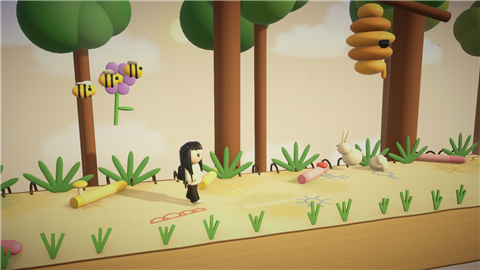
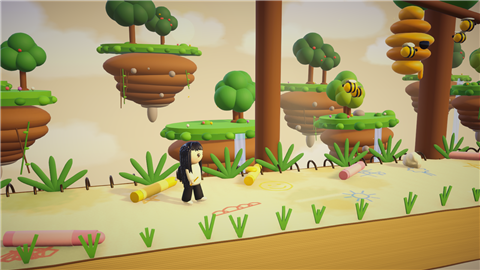
خلفية الغابة صارت جزر خضرا طايرة: سطح عشب بحافة متموجة، صخر وتراب يدبب لتحت، جذور وكروم معلقة، ورد وشجيرات وصخور، شلالات تنزل من بعضها، والجزر تطفو وتتمايل. الشجر صار قصير وعريض وتاجه مدور وفيه ثمار، وببستان الفطر فطر ممتلئ بنقاط تضوي. وصور المراحل الأربع للخريطة

diff --git a/Assets/Scripts/ForestLevels.cs b/Assets/Scripts/ForestLevels.cs
@@ -688,18 +688,26 @@ public class ForestScenery : MonoBehaviour
             ? new[] { new Color(0.45f, 0.35f, 0.75f), new Color(0.3f, 0.5f, 0.7f), new Color(0.6f, 0.4f, 0.8f) }
             : new[] { new Color(0.3f, 0.62f, 0.32f), new Color(0.42f, 0.7f, 0.36f), new Color(0.26f, 0.52f, 0.32f), new Color(0.55f, 0.72f, 0.3f) };
 
-        // شجر بعيد كبير (طبقتين)
+        // جزر خضرا طايرة بالسما (طبقتين): فوقها شجر وشجيرات وورد، وتحتها صخر وجذور، وبعضها فيها شلال
         for (int layer = 0; layer < 2; layer++)
         {
-            float z = layer == 0 ? 20f : 11f;
-            float scale = layer == 0 ? 1.7f : 1.15f;
-            for (float x = s.minX - 14f; x < s.maxX + 14f; x += R(5f, 9f) * scale)
+            float z = layer == 0 ? 25f : 13f;
+            for (float x = s.minX - 18f; x < s.maxX + 18f; x += layer == 0 ? R(11f, 16f) : R(9f, 13f))
             {
-                Vector3 tp = new Vector3(x, -6f, z + R(-1.5f, 1.5f));
-                var tree = s.magic && layer == 1 && rng.Next(3) > 0
-                    ? MakeGiantShroom(go.transform, tp, scale * R(0.8f, 1.2f), gm, rng)
-                    : MakeTree(go.transform, tp, scale * R(0.8f, 1.2f), bark, gm.Mat("Forest Leaf " + layer + rng.Next(3), leafCols[rng.Next(leafCols.Length)] * (layer == 0 ? 0.85f : 1f), 0.3f), rng, layer == 0);
-                s.sway.Add(tree);
+                float radius = layer == 0 ? R(3f, 4.4f) : R(2.2f, 3.2f);
+                Vector3 c = new Vector3(x, layer == 0 ? R(0.5f, 5f) : R(-0.8f, 2.4f), z + R(-1.5f, 1.5f));
+                var island = s.MakeIsland(go.transform, c, radius, gm, rng, layer == 0);
+                // فوقها: شجر (أو فطر عملاق بالبستان)
+                int trees = 1 + rng.Next(layer == 0 ? 3 : 2);
+                for (int k = 0; k < trees; k++)
+                {
+                    Vector3 tp = c + new Vector3(R(-radius * 0.6f, radius * 0.6f), 0.15f, R(-radius * 0.25f, radius * 0.35f));
+                    float sc = (layer == 0 ? 0.55f : 0.42f) * R(0.8f, 1.2f);
+                    var tree = s.magic && rng.Next(3) > 0
+                        ? MakeIslandShroom(island, tp, sc * 2.2f, gm, rng)
+                        : MakeIslandTree(island, tp, sc * 2.2f, bark, gm.Mat("Forest Leaf " + layer + rng.Next(3), leafCols[rng.Next(leafCols.Length)] * (layer == 0 ? 0.9f : 1f), 0.3f), rng, layer == 0);
+                    s.sway.Add(tree);
+                }
             }
         }
         // شجيرات وسراخس ورا الصفحات مباشرة
@@ -799,6 +807,142 @@ public class ForestScenery : MonoBehaviour
         }
     }
 
+    // جزيرة طايرة: سطح عشب أخضر بحافة متموجة، تحته طبقات تراب وصخر تصغر لتحت، جذور وكروم معلقة، ورد وشجيرات، وأحيانا شلال
+    readonly List<Transform> islands = new List<Transform>();
+    readonly List<Vector3> islandHome = new List<Vector3>();
+    readonly List<Material> falls = new List<Material>();
+
+    Transform MakeIsland(Transform parent, Vector3 c, float r, GameManager gm, System.Random rng, bool far)
+    {
+        float R(float a, float b) => a + (float)rng.NextDouble() * (b - a);
+        var t = new GameObject("Floating Island").transform;
+        t.SetParent(parent, false);
+        t.position = c;
+        Material grass = gm.Mat(magic ? "Island Grass Magic" : "Island Grass", magic ? new Color(0.42f, 0.5f, 0.8f) : new Color(0.42f, 0.75f, 0.32f), 0.25f);
+        Material grassDark = gm.Mat(magic ? "Island Grass Dark Magic" : "Island Grass Dark", magic ? new Color(0.32f, 0.38f, 0.65f) : new Color(0.3f, 0.6f, 0.25f), 0.25f);
+        Material dirt = gm.Mat("Island Dirt", new Color(0.58f, 0.4f, 0.27f), 0.2f);
+        Material dirtDark = gm.Mat("Island Dirt Dark", new Color(0.45f, 0.3f, 0.2f), 0.2f);
+        Material rock = gm.Mat("Island Rock", new Color(0.62f, 0.6f, 0.66f), 0.3f);
+        Material root = gm.Mat("Island Root", new Color(0.4f, 0.28f, 0.18f), 0.2f);
+        bool shadows = !far;
+        // السطح
+        LevelBuilder.Visual("Island Top", PrimitiveType.Cylinder, t, Vector3.zero, new Vector3(r * 2f, 0.22f, r * 1.25f), grass, shadows);
+        LevelBuilder.Visual("Island Lip", PrimitiveType.Cylinder, t, new Vector3(0f, -0.22f, 0f), new Vector3(r * 2.08f, 0.16f, r * 1.3f), grassDark, false);
+        // حافة عشب متموجة تتدلى شوي
+        int lumps = Mathf.RoundToInt(r * 5f);
+        for (int k = 0; k < lumps; k++)
+        {
+            float a = k / (float)lumps * Mathf.PI * 2f;
+            LevelBuilder.Visual("Grass Lump", PrimitiveType.Sphere, t, new Vector3(Mathf.Cos(a) * r, -0.2f, Mathf.Sin(a) * r * 0.62f), new Vector3(0.6f, 0.45f, 0.5f) * R(0.8f, 1.2f), k % 2 == 0 ? grass : grassDark, false);
+        }
+        // تحتها صخر وتراب ناعم يدبب لتحت (كرات متداخلة كثير عشان ما يطلع طبقات)
+        float y = -0.35f;
+        for (int k = 0; k < 7; k++)
+        {
+            float f = 1f - k * 0.135f;
+            float sway = Mathf.Sin(k * 1.7f) * 0.08f * r;
+            LevelBuilder.Visual("Island Earth", PrimitiveType.Sphere, t, new Vector3(sway, y - 0.28f * r * f, 0f), new Vector3(r * 1.95f * f, r * 0.62f * f, r * 1.2f * f), k < 2 ? dirt : k < 5 ? dirtDark : rock, shadows && k < 3);
+            y -= 0.26f * r * f;
+        }
+        LevelBuilder.Visual("Island Tip", PrimitiveType.Sphere, t, new Vector3(0f, y - 0.15f * r, 0f), new Vector3(0.45f, 0.9f, 0.45f) * r * 0.5f, rock, false);
+        for (int k = 0; k < 4; k++)
+            LevelBuilder.Visual("Island Stone", PrimitiveType.Sphere, t, new Vector3(R(-0.7f, 0.7f) * r, R(-1.6f, -0.6f) * r * 0.6f, -r * 0.55f), Vector3.one * R(0.25f, 0.5f), rock, false);
+        // جذور وكروم معلقة
+        int roots = 3 + rng.Next(4);
+        for (int k = 0; k < roots; k++)
+        {
+            float rx = R(-0.75f, 0.75f) * r, len = R(0.6f, 1.6f) * r * 0.6f;
+            bool vine = rng.Next(2) == 0;
+            var rt = LevelBuilder.Visual(vine ? "Vine" : "Root", PrimitiveType.Cylinder, t, new Vector3(rx, -0.7f * r * 0.6f - len * 0.5f, -r * 0.45f), new Vector3(0.07f, len * 0.5f, 0.07f), vine ? grassDark : root, false).transform;
+            rt.localRotation = Quaternion.Euler(0f, 0f, R(-12f, 12f));
+            if (vine) for (int l = 0; l < 3; l++) LevelBuilder.Visual("Vine Leaf", PrimitiveType.Sphere, t, rt.localPosition + new Vector3(0.08f, -len * 0.3f + l * len * 0.3f, -0.05f), new Vector3(0.22f, 0.12f, 0.06f), grass, false);
+        }
+        // فوق: شجيرات وورد وصخرة
+        int bushes = 2 + rng.Next(3);
+        for (int k = 0; k < bushes; k++)
+            LevelBuilder.Visual("Island Bush", PrimitiveType.Sphere, t, new Vector3(R(-0.8f, 0.8f) * r, 0.25f, R(-0.5f, 0.3f) * r * 0.6f), new Vector3(1f, 0.7f, 0.8f) * R(0.5f, 0.9f), k % 2 == 0 ? grassDark : grass, shadows);
+        Color[] petals = magic ? new[] { new Color(1.2f, 0.6f, 1.4f), new Color(0.6f, 1.2f, 1.5f) } : new[] { new Color(1f, 0.45f, 0.55f), new Color(1f, 0.85f, 0.3f), new Color(0.95f, 0.95f, 1f), new Color(0.75f, 0.5f, 1f) };
+        int flowers = 3 + rng.Next(5);
+        for (int k = 0; k < flowers; k++)
+        {
+            Vector3 fp = new Vector3(R(-0.85f, 0.85f) * r, 0.2f, R(-0.6f, -0.1f) * r * 0.62f);
+            LevelBuilder.Visual("Flower Stem", PrimitiveType.Cylinder, t, fp, new Vector3(0.03f, 0.12f, 0.03f), grassDark, false);
+            LevelBuilder.Visual("Flower", PrimitiveType.Sphere, t, fp + new Vector3(0f, 0.15f, 0f), Vector3.one * 0.16f, gm.Mat("Island Flower " + k % petals.Length + (magic ? "M" : ""), petals[k % petals.Length], 0.4f), false);
+        }
+        if (rng.Next(3) == 0) LevelBuilder.Visual("Island Boulder", PrimitiveType.Sphere, t, new Vector3(R(-0.6f, 0.6f) * r, 0.3f, 0.2f), new Vector3(0.8f, 0.6f, 0.7f), rock, shadows);
+        // شلال صغير ينزل من الحافة
+        if (!magic && rng.Next(3) == 0)
+        {
+            var tex = new Texture2D(8, 32, TextureFormat.RGBA32, false) { wrapMode = TextureWrapMode.Repeat };
+            for (int py = 0; py < 32; py++)
+                for (int px = 0; px < 8; px++)
+                {
+                    float streak = 0.55f + 0.45f * Mathf.Sin(px * 1.7f + py * 0.4f);
+                    tex.SetPixel(px, py, new Color(0.8f + streak * 0.2f, 0.92f, 1f, 0.55f + streak * 0.35f));
+                }
+            tex.Apply();
+            var mat = NightSky.Transparent("Island Waterfall", tex, new Color(0.85f, 0.95f, 1f, 0.85f));
+            float fallX = R(-0.4f, 0.4f) * r, fallLen = R(4f, 7f);
+            var fall = LevelBuilder.Visual("Waterfall", PrimitiveType.Quad, t, new Vector3(fallX, -fallLen * 0.5f - 0.1f, -r * 0.64f), new Vector3(R(0.5f, 0.9f), fallLen, 1f), mat, false).transform;
+            fall.localRotation = Quaternion.identity;
+            LevelBuilder.Visual("Water Pool", PrimitiveType.Cylinder, t, new Vector3(fallX, 0.13f, -r * 0.5f), new Vector3(0.9f, 0.02f, 0.5f), gm.Mat("Island Water", new Color(0.45f, 0.75f, 1f), 0.9f), false);
+            falls.Add(mat);
+        }
+        islands.Add(t);
+        islandHome.Add(c);
+        return t;
+    }
+
+    // شجرة الجزيرة: جذع قصير وعريض وتاج كبير مدور (مثل ألعاب الكرتون)
+    static Transform MakeIslandTree(Transform parent, Vector3 basePos, float scale, Material bark, Material leaf, System.Random rng, bool far)
+    {
+        float R(float a, float b) => a + (float)rng.NextDouble() * (b - a);
+        var t = new GameObject("Tree").transform;
+        t.SetParent(parent, false);
+        t.position = basePos;
+        float h = R(1.3f, 1.9f) * scale;
+        LevelBuilder.Visual("Trunk", PrimitiveType.Cylinder, t, new Vector3(0f, h * 0.5f, 0f), new Vector3(0.32f * scale, h * 0.5f, 0.32f * scale), bark, !far);
+        LevelBuilder.Visual("Trunk Base", PrimitiveType.Sphere, t, new Vector3(0f, 0.08f * scale, 0f), new Vector3(0.6f, 0.3f, 0.6f) * scale, bark, false);
+        int puffs = 4 + rng.Next(3);
+        for (int i = 0; i < puffs; i++)
+        {
+            float a = i / (float)puffs * Mathf.PI * 2f;
+            LevelBuilder.Visual("Leaves", PrimitiveType.Sphere, t, new Vector3(Mathf.Cos(a) * 0.65f * scale, h + 0.25f * scale + Mathf.Sin(a) * 0.35f * scale, Mathf.Sin(a) * 0.3f * scale), Vector3.one * R(1.1f, 1.45f) * scale, leaf, !far);
+        }
+        LevelBuilder.Visual("Top", PrimitiveType.Sphere, t, new Vector3(0f, h + 0.8f * scale, 0f), Vector3.one * 1.4f * scale, leaf, !far);
+        // ثمار صغيرة ملونة أحيانا
+        if (rng.Next(2) == 0)
+            for (int i = 0; i < 4; i++)
+            {
+                float a = R(0f, Mathf.PI * 2f);
+                LevelBuilder.Visual("Fruit", PrimitiveType.Sphere, t, new Vector3(Mathf.Cos(a) * 0.7f * scale, h + 0.2f * scale + Mathf.Sin(a) * 0.3f * scale, -0.62f * scale), Vector3.one * 0.18f * scale, GameManager.Instance.Mat("Tree Fruit", new Color(1f, 0.35f, 0.35f), 0.5f), false);
+            }
+        return t;
+    }
+
+    // فطرة الجزيرة: ساق قصير ممتلئ وراس كبير منقط يضوي
+    static Transform MakeIslandShroom(Transform parent, Vector3 basePos, float scale, GameManager gm, System.Random rng)
+    {
+        Color[] caps = { new Color(1.2f, 0.45f, 0.7f), new Color(0.5f, 0.8f, 1.4f), new Color(0.8f, 0.55f, 1.3f), new Color(1.3f, 0.75f, 0.35f) };
+        var t = new GameObject("Tree").transform;
+        t.SetParent(parent, false);
+        t.position = basePos;
+        float h = (1.1f + (float)rng.NextDouble() * 0.5f) * scale;
+        Material stem = gm.Mat("Giant Shroom Stem", new Color(0.95f, 0.9f, 0.85f), 0.3f);
+        Material cap = gm.Mat("Giant Shroom Cap " + rng.Next(4), caps[rng.Next(caps.Length)], 0.5f);
+        Material dot = gm.Mat("Giant Shroom Dot", new Color(1.3f, 1.25f, 1.1f), 0.4f);
+        LevelBuilder.Visual("Stem", PrimitiveType.Cylinder, t, new Vector3(0f, h * 0.5f, 0f), new Vector3(0.45f * scale, h * 0.5f, 0.45f * scale), stem, false);
+        LevelBuilder.Visual("Stem Base", PrimitiveType.Sphere, t, new Vector3(0f, 0.1f * scale, 0f), new Vector3(0.75f, 0.35f, 0.75f) * scale, stem, false);
+        LevelBuilder.Visual("Cap", PrimitiveType.Sphere, t, new Vector3(0f, h, 0f), new Vector3(2.2f, 1.1f, 2.2f) * scale, cap, false);
+        LevelBuilder.Visual("Cap Under", PrimitiveType.Cylinder, t, new Vector3(0f, h - 0.15f * scale, 0f), new Vector3(1.9f, 0.04f, 1.9f) * scale, stem, false);
+        for (int i = 0; i < 6; i++)
+        {
+            float a = i / 6f * Mathf.PI * 2f;
+            LevelBuilder.Visual("Dot", PrimitiveType.Sphere, t, new Vector3(Mathf.Cos(a) * 0.65f * scale, h + 0.35f * scale, Mathf.Sin(a) * 0.65f * scale - 0.25f * scale), new Vector3(0.32f, 0.14f, 0.32f) * scale, dot, false);
+        }
+        return t;
+    }
+
     static Transform MakeTree(Transform parent, Vector3 basePos, float scale, Material bark, Material leaf, System.Random rng, bool far)
     {
         var t = new GameObject("Tree").transform;
@@ -885,6 +1029,13 @@ public class ForestScenery : MonoBehaviour
     {
         float t = Time.time, dt = Time.deltaTime;
         for (int i = 0; i < sway.Count; i++) sway[i].localRotation = Quaternion.Euler(0f, 0f, Mathf.Sin(t * 0.9f + i * 0.7f) * (sway[i].name == "Tree" ? 1f : 6f));
+        // الجزر تطفو وتتمايل بهدوء، والشلالات تجري
+        for (int i = 0; i < islands.Count; i++)
+        {
+            islands[i].position = islandHome[i] + new Vector3(0f, Mathf.Sin(t * 0.5f + i * 1.3f) * 0.25f, 0f);
+            islands[i].localRotation = Quaternion.Euler(0f, 0f, Mathf.Sin(t * 0.35f + i) * 1.5f);
+        }
+        foreach (Material m in falls) m.SetTextureOffset("_BaseMap", new Vector2(0f, t * 1.4f));
         for (int i = 0; i < butterflies.Count; i++)
         {
             Vector3 h = butterflyHome[i];
